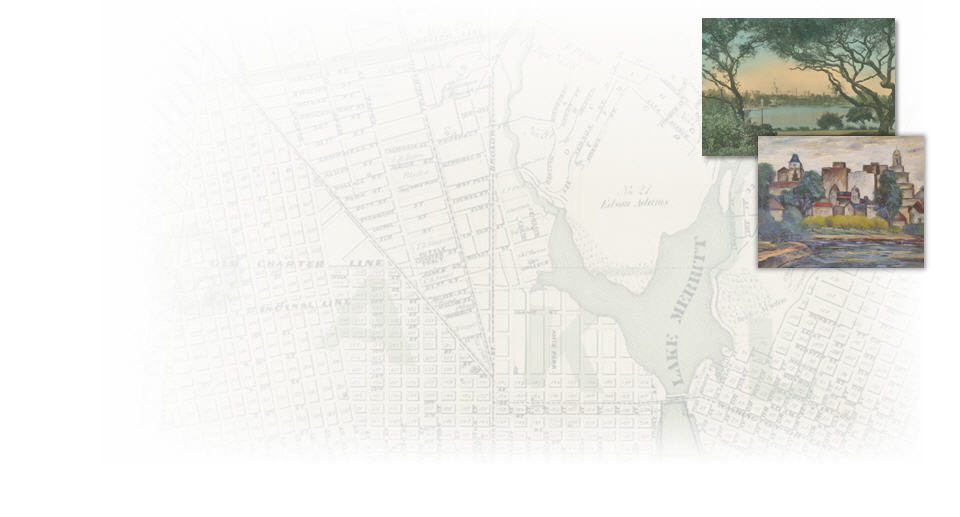
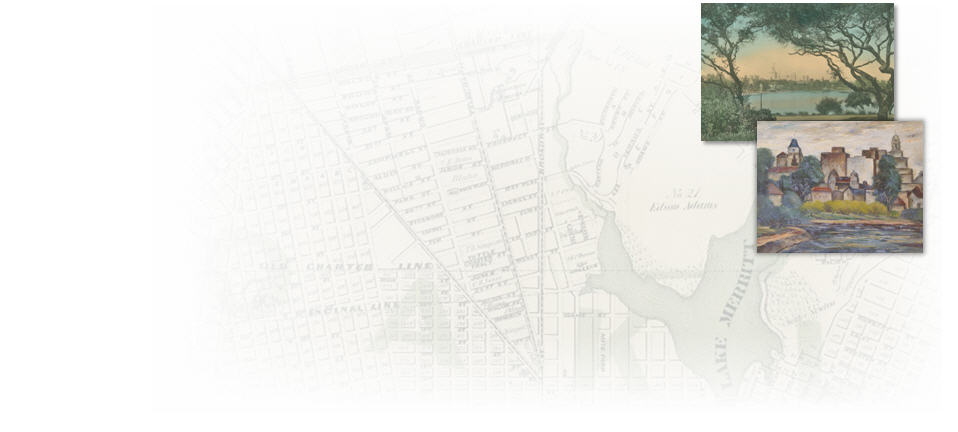
committing few changes, mostly styles.

diff --git a/public/stylesheets/main_styles.css b/public/stylesheets/main_styles.css
@@ -24,6 +24,7 @@ body {
 
 .home {
 	background-image:url('/images/merritt_bg.jpg');
+	background-repeat:no-repeat;
 }
 
 .container_16 {
